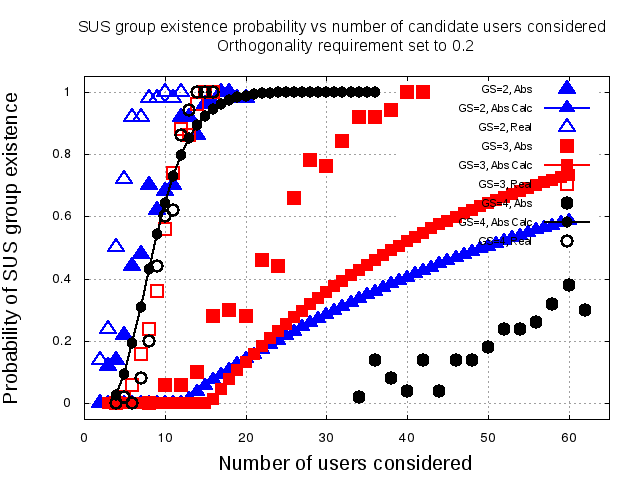
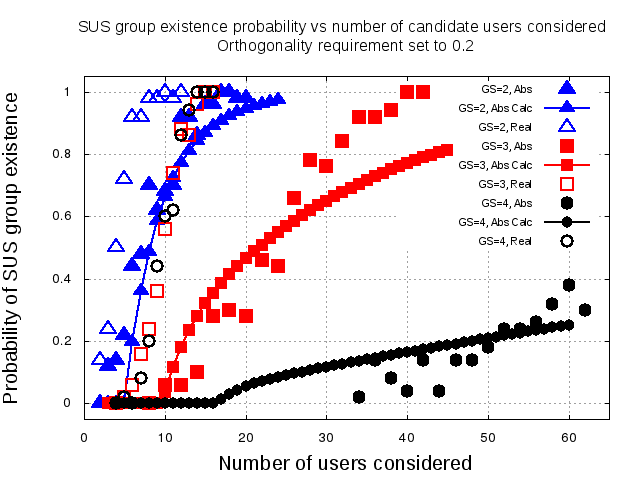
update to the datasets for various values of beta. JC

Changed region(s): [[0.1562, 0.3438, 0.9062, 0.875], [0.25, 0.2812, 0.7188, 0.7812], [0.25, 0.1562, 0.5938, 0.4375]]

diff --git a/swannack_reproduce/complex/search_solve_p_not_empty.m b/swannack_reproduce/complex/search_solve_p_not_empty.m
@@ -1,24 +1,20 @@
 %Example usage:
 %[t n e] = search_solve_p_not_empty(.1, 1, 2, 2, 4);
 %plot(cos(t),n);
-function [theta num_users err] = sym_solve_p_not_empty(delta, rho_min, rho_max, group_size, num_dim)
+function [theta num_users err] = search_solve_p_not_empty(delta, rho_min, rho_max, group_size, num_dim)
     thresh = delta/50;
     step = pi/32;
     theta = 0:step:(pi/2)-step;
     num_users =zeros(1,length(theta));
-    err = ones(1,length(theta));
+    trial_len = 100;
+    err_mat = ones(length(theta),trial_len);
+    err = ones(length(theta),1);
     for k = 1:length(theta)
-        for n = 1:100
+        for n = 1:trial_len
             p = p_not_empty(theta(k),rho_min, rho_max, group_size, num_dim, n);
             %err = abs(p-(1-delta));
-            if abs(p-(1-delta)) < err(k)
-                num_users(k) = n;
-                err(k) = abs(p-(1-delta));
-            else
-                if err(k) ~= 1;
-                    break;
-                end
-            end
+            err_mat(k,n) = abs(p-(1-delta));
         end
+        [err(k) num_users(k)] = min(err_mat(k,:));
     end
 end

diff --git a/swannack_reproduce/complex/p_not_empty.m b/swannack_reproduce/complex/p_not_empty.m
@@ -18,7 +18,7 @@ function p_not_empty_lbnd = p_not_empty(theta, rho_min, rho_max, group_size, num
 
     E_arg1 = 2*p_orth_lbnd^(2)/l;
     if(E_func(p_orth_lbnd,l) == E_arg1)
-        c1 = exp(2*p_orth_lbnd*(l-1)/l);
+        c1 = exp(2*(p_orth_lbnd^2)*(l-1)/l);
     else
         c1 = 1;
     end

diff --git a/swannack_reproduce/complex/c_func.m b/swannack_reproduce/complex/c_func.m
@@ -1,3 +1,3 @@
 function c = c_func(theta,s,beta)
-    c = (2*theta/pi)^(s)*sin(theta)^(beta);
+    c = ((2*theta/pi)^(s))*sin(theta)^(beta);
 end
